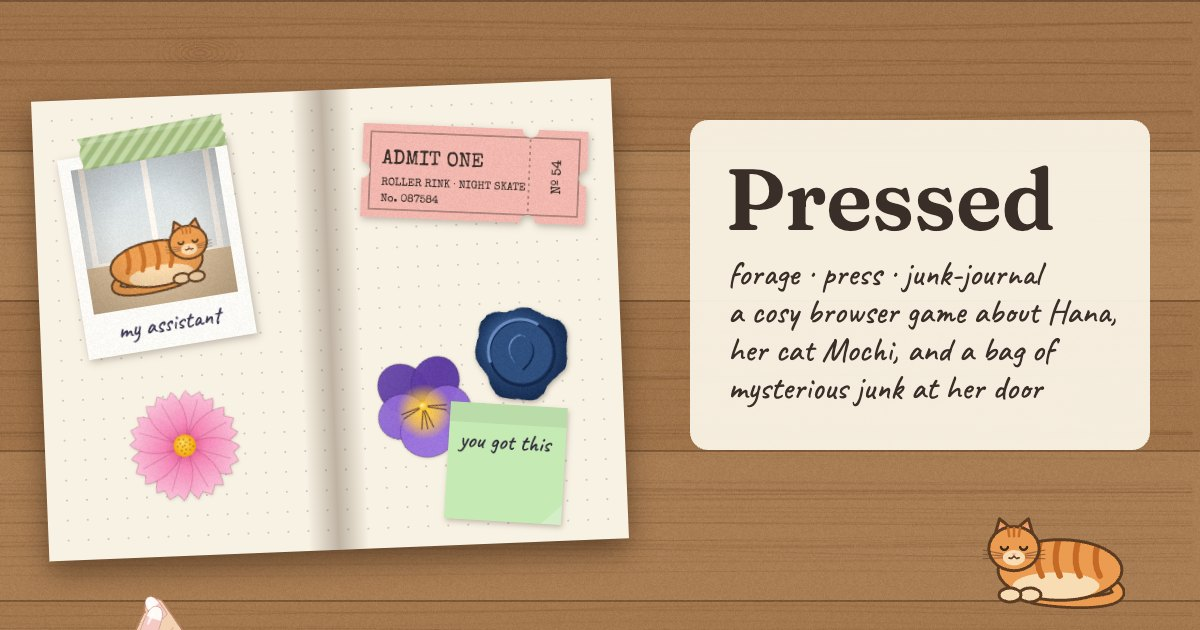
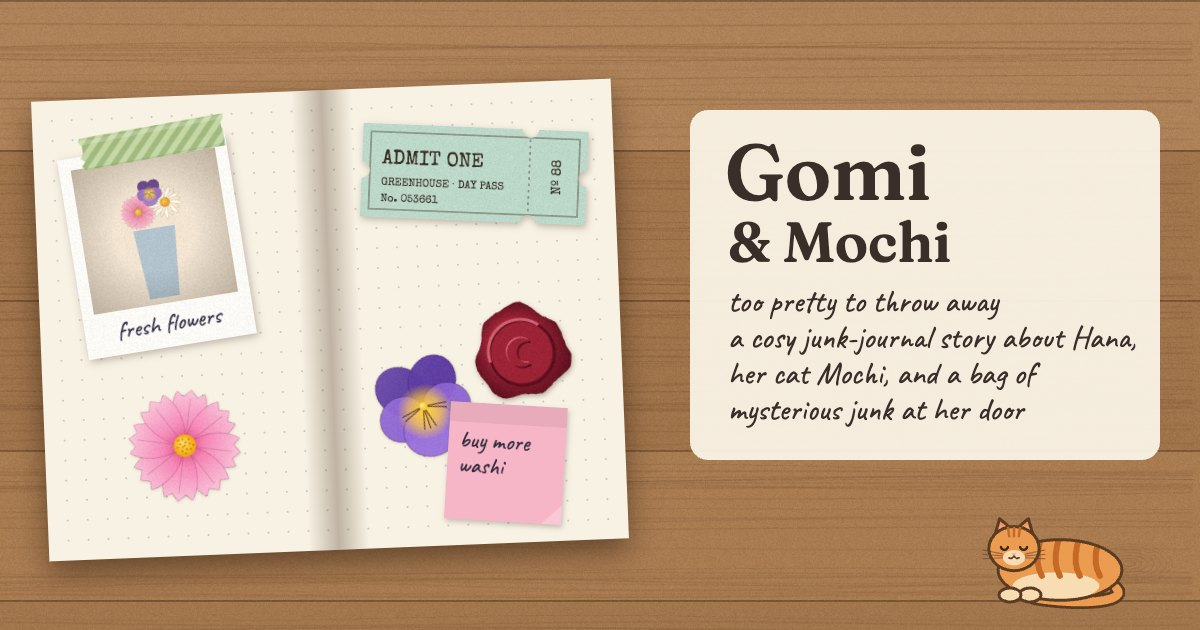
Rename to Gomi & Mochi; new title screen copy, share card and README

diff --git a/js/scenes/title.js b/js/scenes/title.js
@@ -20,12 +20,13 @@ function makeCover() {
   x.fillStyle = '#4a3a2c'; x.fillRect(w - 70, 0, 18, h);
   x.restore();
   x.fillStyle = '#f6efdf';
-  x.beginPath(); x.roundRect(90, 150, 300, 170, 8); x.fill();
+  x.beginPath(); x.roundRect(60, 140, 360, 200, 8); x.fill();
   x.strokeStyle = 'rgba(80,60,40,.5)'; x.lineWidth = 1.5;
-  x.beginPath(); x.roundRect(100, 160, 280, 150, 6); x.stroke();
+  x.beginPath(); x.roundRect(70, 150, 340, 180, 6); x.stroke();
   x.fillStyle = INK; x.textAlign = 'center';
-  x.font = `600 74px ${F.serif}`; x.fillText('Pressed', 240, 250);
-  x.font = `30px ${F.hand}`; x.fillText('a little junk journal', 240, 290);
+  x.font = `600 64px ${F.serif}`; x.fillText('Gomi', 240, 222);
+  x.font = `600 46px ${F.serif}`; x.fillText('& Mochi', 240, 272);
+  x.font = `28px ${F.hand}`; x.fillText('a junk journal story', 240, 312);
   const daisy = flowerSprite('daisy', 46);
   x.save(); x.translate(330, 430); x.rotate(0.3); x.drawImage(daisy, -daisy.width / 2, -daisy.height / 2); x.restore();
   const fern = flowerSprite('fern', 60);
@@ -66,14 +67,14 @@ export const title = {
     x.save();
     x.shadowColor = 'rgba(30,15,5,.5)'; x.shadowBlur = 8; x.shadowOffsetY = 2;
     x.fillStyle = '#fdf7ea';
-    x.font = `600 46px ${F.serif}`;
-    x.fillText('Forage. Press. Journal.', 720, 170);
+    x.font = `600 40px ${F.serif}`;
+    x.fillText('Too pretty to throw away.', 720, 170);
     x.font = `31px ${F.hand}`;
     const lines = [
-      '✿  pick flowers from the garden',
-      '✿  press them nice and evenly',
-      '✿  junk-journal a keepsake spread',
-      `✿  …while ${CAT_NAME} tries very hard to help`,
+      "✿  a bag of junk appears at Hana's door",
+      '✿  press balcony flowers, nice and evenly',
+      '✿  snip, tape & glue a junk-journal spread',
+      `✿  step into old polaroids… with ${CAT_NAME}`,
     ];
     lines.forEach((l, i) => x.fillText(l, 724, 232 + i * 44));
     x.restore();

diff --git a/js/scenes/keepsake.js b/js/scenes/keepsake.js
@@ -41,7 +41,7 @@ function compose(image) {
   x.fillText(`${CAT_NAME} visited ${st.visits}× · ${st.paws ? st.paws + ' paw print' + (st.paws > 1 ? 's' : '') : 'no paw prints'} · ${st.pets} pet${st.pets === 1 ? '' : 's'}`, -190, 4);
   x.fillText(`herbarium ${Object.keys(save.found).length} / ${FLOWER_TYPES.length}`, -190, 40);
   x.font = `italic 600 22px ${F.serif}`; x.fillStyle = 'rgba(58,46,40,.6)';
-  x.textAlign = 'right'; x.fillText('Pressed ✿', 300, 66);
+  x.textAlign = 'right'; x.fillText('Gomi & Mochi ✿', 300, 66);
   x.restore();
   x.save(); x.translate(W / 2 + 400, 950); drawCat(x, { pose: 'sit', t: 1, dir: -1, s: 0.75 }); x.restore();
   return c;
@@ -51,7 +51,7 @@ function download() {
   const done = (b) => {
     const a = document.createElement('a');
     a.href = URL.createObjectURL(b);
-    a.download = `pressed-day-${game.day.n}.png`;
+    a.download = `gomi-and-mochi-day-${game.day.n}.png`;
     document.body.appendChild(a); a.click(); a.remove();
     setTimeout(() => URL.revokeObjectURL(a.href), 2000);
     toasts.add('Saved to your downloads ✿');
@@ -61,9 +61,9 @@ function download() {
 
 async function share() {
   const go = async (b) => {
-    const file = new File([b], `pressed-day-${game.day.n}.png`, { type: 'image/png' });
+    const file = new File([b], `gomi-and-mochi-day-${game.day.n}.png`, { type: 'image/png' });
     if (navigator.canShare && navigator.canShare({ files: [file] })) {
-      try { await navigator.share({ files: [file], title: 'My Pressed journal', text: `Day ${game.day.n} in my Pressed journal ✿` }); } catch (e) { /* cancelled */ }
+      try { await navigator.share({ files: [file], title: 'My Gomi & Mochi journal', text: `Day ${game.day.n} of my Gomi & Mochi journal ✿` }); } catch (e) { /* cancelled */ }
     } else download();
   };
   if (blob) go(blob); else card.toBlob((b) => { blob = b; go(b); });

diff --git a/index.html b/index.html
@@ -3,10 +3,10 @@
 <head>
   <meta charset="utf-8">
   <meta name="viewport" content="width=device-width, initial-scale=1, viewport-fit=cover">
-  <title>Pressed</title>
-  <meta name="description" content="Forage flowers, press them just right and junk-journal a keepsake, while your cat tries to help.">
+  <title>Gomi &amp; Mochi</title>
+  <meta name="description" content="A cosy junk-journalling story game: press balcony flowers, snip and tape scraps, and step into old polaroids with Hana and her cat Mochi.">
   <meta name="theme-color" content="#2b211b">
-  <meta property="og:title" content="Pressed">
+  <meta property="og:title" content="Gomi &amp; Mochi">
   <meta property="og:description" content="Forage, press and junk-journal with Hana, while her cat Mochi tries very hard to help.">
   <meta property="og:image" content="https://cheery-taffy-e93a48.netlify.app/og.jpg">
   <meta property="og:type" content="website">
@@ -25,9 +25,9 @@
   </style>
 </head>
 <body>
-  <canvas id="game" aria-label="Pressed, a flower pressing and junk journalling game"></canvas>
+  <canvas id="game" aria-label="Gomi &amp; Mochi, a junk journalling story game"></canvas>
   <div id="rotate">Turn your phone sideways<br>for a bigger journal ✿</div>
-  <noscript>Pressed needs JavaScript to run.</noscript>
+  <noscript>Gomi &amp; Mochi needs JavaScript to run.</noscript>
   <script type="module" src="js/main.js"></script>
 </body>
 </html>

diff --git a/js/scenes/press.js b/js/scenes/press.js
@@ -147,7 +147,7 @@ export const press = {
     x.save();
     x.fillStyle = '#fdf7ea'; x.shadowColor = 'rgba(30,15,5,.5)'; x.shadowBlur = 6;
     x.font = `600 32px ${F.serif}`;
-    x.fillText(phase === 'done' ? 'Pressed and ready' : `The press · ${idx + 1} of ${queue.length}`, 34, 58);
+    x.fillText(phase === 'done' ? 'Pressed and ready ✿' : `The press · ${idx + 1} of ${queue.length}`, 34, 58);
     x.font = `25px ${F.hand}`;
     const hint = phase === 'ready' ? 'tap to close the press'
       : phase === 'tighten' ? 'hold a wing nut to tighten · twist it clockwise to tighten, anticlockwise to unwind'

diff --git a/js/scenes/letter.js b/js/scenes/letter.js
@@ -242,7 +242,7 @@ function drawEnding(x) {
     x.save();
     x.fillStyle = '#fdf7ea'; x.textAlign = 'center';
     x.font = `600 52px ${F.serif}`; x.fillText('the end', 640, 560);
-    x.font = `28px ${F.hand}`; x.fillText('thank you for playing Pressed ✿', 640, 604);
+    x.font = `28px ${F.hand}`; x.fillText('thank you for playing Gomi & Mochi ✿', 640, 604);
     x.restore();
     btn.draw(x, t);
   }

diff --git a/js/scenes/morning.js b/js/scenes/morning.js
@@ -206,5 +206,5 @@ function drawIntro(x) {
   x.fillText(`${introIdx + 1} / ${INTRO.length}  ·  tap to continue`, 350, 196);
   x.restore();
   x.fillStyle = '#fdf7ea'; x.font = `600 28px ${F.serif}`; x.textAlign = 'center';
-  x.fillText(`${HANA}'s week`, 640, 110);
+  x.fillText('Gomi & Mochi', 640, 110);
 }

diff --git a/README.md b/README.md
@@ -1,0 +1,27 @@
+# Gomi & Mochi
+
+*Too pretty to throw away.*
+
+A cosy junk-journalling story game that runs in the browser. Made for **Twigpine Project Treetop, Round 01 (Games)**, 9–16 Oct 2026.
+
+Hana has just moved into a tiny apartment in a quiet Japanese town with her cat, Mochi. Rubbish waits days for its collection day, so she starts journalling with it. Every morning a paper bag of junk and an unsigned note appear at her door…
+
+## How to play
+- **Morning:** read the note, open the bag. The rubbish calendar shows today's collection.
+- **Balcony garden:** pick 3 flowers. Tap Mochi before Mochi naps on (and squashes) one.
+- **Press:** hold or twist the four wing nuts (clockwise tightens, anticlockwise unwinds). Keep them even and in the green.
+- **Journal:** a junk box of ~70 scraps, washi tape, stamps, post-its and your own photos. Freehand scissors, glue stick, realistic layering. Tape or glue things down before Mochi walks across the page.
+- **Memories:** step into the bag's polaroid and find three keepsakes to bring the faded photo back to colour.
+- **Day 3:** seal a thank-you letter with a timed wax seal.
+- Save or share your finished spread as a keepsake image.
+
+## Tech
+Plain HTML, ES modules and Canvas 2D. No build step and no dependencies; every texture, flower, scrap, the cat and Hana's hands are drawn in code. Sound effects are synthesised with Web Audio. Fonts: Fraunces, Caveat and Special Elite (Google Fonts, SIL OFL).
+
+Run locally with any static server, for example:
+
+```
+python3 -m http.server 8000
+```
+
+then open http://localhost:8000.

diff --git a/PRD.md b/PRD.md
@@ -1,4 +1,4 @@
-# Pressed — Product Requirements Document
+# Gomi & Mochi — Product Requirements Document
 
 **Status:** In development · **Owner:** Joanne · **Last updated:** 14 Oct 2026
 **Competition:** Twigpine Project Treetop, Round 01 (Games) — https://twigpine.com/treetop
@@ -42,7 +42,7 @@
 ### Submission form (8 fields, 2 optional)
 | Field | Required | Our value |
 |---|---|---|
-| Name | ✅ | Pressed |
+| Name | ✅ | Gomi & Mochi |
 | One line about it | optional | "Forage flowers, press them just right and junk-journal a keepsake — while your cat tries to help." |
 | Where we play it | ✅ | Public game URL (GitHub Pages) |
 | Source | ✅ | Public GitHub repo |
